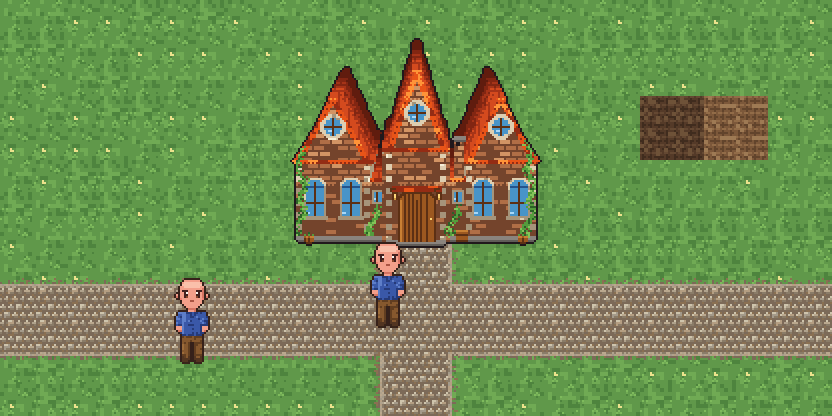
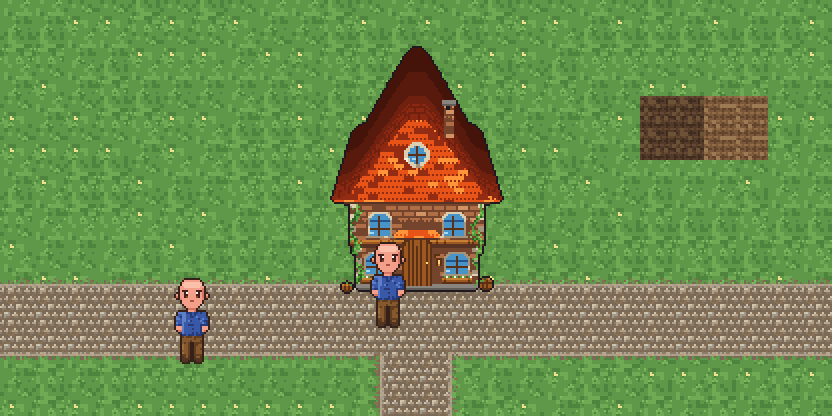
첫 집 모양으로 되돌리고, 지붕을 뒤로 길게
정면 박공 셋짜리는 마을회관의 형태지 우리 집의 형태가 아니었다.
사진에서 가져올 것은 **재질과 뒤로 눕는 지붕**이지 덩어리 구성이 아니다.
그래서 처음 그렸던 한 덩어리 집으로 돌아왔다 — 1층 위에 2층이 턱만큼
나오고, 그 위에 몸통보다 큰 지붕 하나가 앞을 본다.

크기는 옛 집에서 재 왔다 (292x384px = 73x96칸, 한가운데). 안 맞추면
집만 혼자 커져서 마을이 안 맞는다.

지붕을 「면」으로 만들기까지 세 번 틀렸다:

1. 종 모양(지수 0.58) + 뒤로 누운 면 = **버섯갓**. 지수를 0.94로 펴서
   빗변을 세웠다. 「너무 각져」서 부풀렸던 건데, 각을 없애는 건 지붕이
   아니라 몸통 귀퉁이의 일이었다 (soften이 한다)
2. 꼭대기가 **뾰족**하면 안 된다. 점 하나를 뒤로 서른여섯 칸 밀면 점이
   선이 되고, 그건 지붕이 아니라 굴뚝이다. 폭 4칸 용마루를 두니 그 띠가
   뒤로 뻗으면서 양옆으로 지붕면이 흘러내린다 — 이게 길이감이다
3. 색이 **뒤집혀** 있었다. 디더가 위를 밝게 칠해서 제일 먼 자리가 제일
   밝았다. 지붕은 한 면이다 — 처마가 가깝고 용마루가 멀다. 처마를 밝게,
   용마루로 갈수록 어둡게, 뒤 세 단계까지 한 줄기로 이었다

깊이 13 -> 24 -> 36칸. 앞 지붕(40칸)과 맞먹는 길이라 지붕이 몸통 뒤로
한참 이어진다. 좁아지는 폭도 26%로 같이 키웠다 — 길이만 늘리고 폭을
그대로 두면 멀어지는 게 아니라 그냥 길쭉해진다.

그 밖에:
- 구조 그늘(제티 턱·처마 밑)에 전용 색 D. 벽 그늘색을 쓰면 나중에 도는
  벽돌 줄눈 패스가 덮어써서 **턱이 사라졌다**
- 문 위에 제대로 된 현관 지붕. 두 줄 차양으로는 벽에 뚫린 구멍으로 보인다
- 문 폭 19 -> 15 (벽폭의 1/4). 넓으면 창고 문이 된다
- 살림은 벽에 기대 놓는다. 멀찍이 두면 잔디 위 점이 된다
- --wall=brick|stucco 로 벽 재료를 골라 볼 수 있다

Changed region(s): [[0.3438, 0.0938, 0.6562, 0.7188]]

diff --git a/game/assets/ref/make_buildings.js b/game/assets/ref/make_buildings.js
@@ -36,9 +36,12 @@ const OUT = INSTALL ? SPR : REF;
 const PRE = INSTALL ? '' : 'proposed_';
 
 const S = 4;                     // 논리 한 칸 = 원본 4px (화면에서 2px)
-// 캔버스를 위로 열두 칸 키웠다. 앞모습은 그대로 아래로 내려앉고,
-// 새로 생긴 위쪽 자리를 **뒤로 물러나는 지붕**이 쓴다.
-const GW = 128, GH = 114;
+// 캔버스를 위로 서른여섯 칸 키웠다. 앞모습은 그대로 아래로 내려앉고,
+// 새로 생긴 위쪽 자리를 **뒤로 물러나는 지붕**이 전부 쓴다.
+//
+// 바닥선(GROUND)도 같이 내려야 한다 — world_gen 이 그림 **높이**로 밑변을
+// 맞추므로, 바닥을 그대로 두고 캔버스만 키우면 집이 공중에 뜬다.
+const GW = 128, GH = 138;
 const FW = GW * S, FH = GH * S;
 
 // 옛 집에서 뽑은 색. 각 재료는 [기본, 그늘, 밝은 면] 세 톤.
@@ -70,11 +73,15 @@ const PAL = {
   // 같은 색이면 결에 묻혀 정면과 안 갈린다
   // 가까운 쪽 -> 먼 쪽 세 단계. 한 색으로 두면 뒤가 슬래브처럼 평평해진다
   'm': [176, 158, 130], 'n2': [148, 132, 108], 'm3': [120, 106, 88],
-  'M': [166, 52, 24], 'M2': [130, 38, 18], 'M3': [96, 28, 14],
-  // 뒤 지붕의 **가까운 쪽은 오히려 밝다.** 하늘을 마주 보는 면이라
-  // 빛을 정면 벽보다 많이 받는다. 여기서 한 번 밝아졌다가 멀어지며
-  // 어두워져야 「눕혀진 면」으로 보인다 — 처음부터 어두우면 그냥 그림자다
-  'Mn': [212, 74, 30],
+  'M': [112, 32, 14], 'M2': [88, 26, 12], 'M3': [68, 20, 10],
+  // 지붕 뒤쪽 세 단계는 **앞 지붕의 그늘색(R)에서 이어 내려간다.**
+  // 밝게 잡았더니 처마 쪽 밝은 기와 바로 위에 또 밝은 띠가 생겨서
+  // 지붕이 두 장으로 갈려 보였다. 지붕은 한 면이다 — 처마가 제일 가깝고
+  // 용마루가 제일 멀다. 색도 그 순서로 한 줄기여야 한다.
+  'Mn': [138, 40, 18],
+  // 구조 그늘(제티 턱·처마 밑) 전용. 벽 그늘색(K)을 쓰면 나중에 도는
+  // 벽돌 줄눈 패스가 통째로 덮어써서 **턱이 사라진다** — 실제로 사라졌었다
+  'D': [88, 50, 34],
 };
 
 // 결을 낼 때 쓰는 대응표 (기본 <-> 그늘 / 밝은 면)
@@ -246,7 +253,9 @@ function woodGrain(g) {
 // 빛은 **건물 하나에 한 방향**이다. 덩어리마다 따로 밝기를 매기면
 // 세 채를 붙여 놓은 것처럼 보인다 — 그래서 캔버스 전체를 한 번에 훑는다.
 function roughen(g) {
-  ditherFace(g, ['l', 'r', 'R'], 0, GROUND);            // 기와
+  // 기와는 **거꾸로** 깐다 — 처마(아래)가 밝고 용마루(위)가 어둡다.
+  // 위를 밝게 뒀더니 제일 먼 자리가 제일 밝아져서 원근이 뒤집혔다
+  ditherFace(g, ['R', 'r', 'l'], 0, GROUND);
   ditherFace(g, ['i', 'k', 'K'], 0, GROUND);            // 벽돌
   ditherFace(g, ['x', 'w', 'W'], 0, GROUND);            // 석재 테두리
   roofTiles(g, 0, GROUND);
@@ -324,7 +333,9 @@ function soften(g) {
 // 열 칸으로는 **두께**밖에 안 나온다. 사진의 지붕이 「면」으로 보이는 건
 // 뒤로 흐르는 거리가 정면 벽만큼 길어서다. 열다섯 칸 = 화면에서 30px,
 // 정면 벽(37칸)의 절반쯤 — 이제 눈이 이걸 「지붕」으로 읽는다.
-const DEPTH = 15;
+// 열세 칸은 「두껍다」, 스물네 칸은 「길다」, 서른여섯 칸은 **「뻗어 있다」**이다.
+// 앞 지붕(마흔 칸)과 거의 맞먹는 길이라, 지붕이 몸통 뒤로 한참 이어진다.
+const DEPTH = 36;
 
 // 그리고 **멀어질수록 좁아진다.**
 //
@@ -332,7 +343,9 @@ const DEPTH = 15;
 // 가는 것은 작아진다 — 그게 원근이다. 좌우로 비스듬히 미는 건 이미 해 봤고
 // 건물이 기울어 보여서 접었는데, **가운데로 모으는 것**은 다르다.
 // 양쪽이 똑같이 좁아지므로 정면은 마주 본 채로 뒤만 멀어진다.
-const TAPER = 0.16;              // 맨 뒤에서 16% 좁아진다
+// 깊어진 만큼 더 모아 준다. 길이가 두 배인데 좁아지는 폭이 그대로면
+// 뒤가 멀어지는 게 아니라 그냥 길쭉해 보인다
+const TAPER = 0.26;              // 맨 뒤에서 26% 좁아진다
 const VPX = GW / 2;              // 소실점 x (건물 한가운데 위)
 
 // 뒤로 물러나는 면은 **멀어질수록 어두워진다.** 한 색으로 채우면 두께가
@@ -400,81 +413,104 @@ function extrude(g) {
   // 맨 뒤 용마루 — 하늘을 받는 모서리라 밝다. 지붕 뒷면에만 얹는다
   // (굴뚝 꼭대기까지 주황으로 칠하면 그것만 튄다)
   for (let x = 0; x < GW; x++) for (let y = 0; y < GH - 1; y++)
-    if (g.d[y][x] !== '.') { if (BACK_ROOF.includes(g.d[y][x])) g.px(x, y, 'l'); break; }
+    if (g.d[y][x] !== '.') { if (BACK_ROOF.includes(g.d[y][x])) g.px(x, y, 'Mn'); break; }
 }
 
 
 // ---- 뼈대 ----
 //
-// 한 덩어리 상자를 아무리 잘 칠해도 창고로 보인다. 건물이 「건물」로
-// 읽히는 건 **덩어리가 여럿**일 때다 —
+// **한 덩어리 집으로 되돌렸다.**
 //
-//   가운데 몸채   제일 높고 **앞으로 나온다**. 시선이 여기 먼저 꽂힌다
-//   양 날개       한 단 낮은 박공이 정면을 마주 본다 (좌우 대칭)
-//   오목부        그 사이에 한 단 더 물러난 자리. 여기서 **지붕면**이 보인다
+// 사진(커뮤니티 센터)을 보고 정면 박공 셋짜리로 갈라 봤지만, 그건 마을
+// 회관의 형태지 우리 집의 형태가 아니었다. 사진에서 가져올 것은 **재질과
+// 뒤로 눕는 지붕**이지 덩어리 구성이 아니다.
 //
-// 정면 박공이 셋이면 실루엣에 산이 셋 생겨서, 멀리서 봐도 형태가 잡힌다.
-const GROUND = 107;               // 날개·오목부 바닥
-const GROUND_C = 109;             // 가운데 몸채 — 앞으로 나온 만큼 바닥이 내려온다
-
-const C0 = 49, C1 = 78;          // 가운데 몸채 좌우
-const C_RIDGE = 22, C_EAVE = 62;
-
-const L0 = 4, L1 = 40;           // 왼 날개
-const R0 = 89, R1 = 123;         // 오른 날개 (몸채와의 틈을 왼쪽과 똑같이 아홉 칸)
-const W_RIDGE = 36, W_EAVE = 68;
-
-const CONN_EAVE = 76;            // 오목부 처마 — 제일 낮다
-const CX = Math.round((C0 + C1) / 2);
-
-
-// 정면 박공 — 삼각 벽면에 빗변을 따라 기와 박공널을 두른다.
+// 그래서 처음 그렸던 모양 그대로 —
+//   1층 벽 위에 2층이 턱(제티)만큼 앞으로 나오고, 그 위에 몸통보다 큰
+//   지붕 하나가 앞을 보고 얹힌다. 옛 집이 아늑해 보이는 건 지붕이 크기 때문이다.
 //
-// 앞을 보고 선 지붕은 **면이 아니라 테두리**로 그린다. 지붕면 자체는
-// extrude가 이 빗변을 위로 밀어 뒤에 만들어 준다 — 그게 뒤로 흐르는 지붕이다.
-// 빗변을 살짝(지수 0.86) 부풀리면 곧은 삼각형보다 지붕이 얹힌 것처럼 보인다.
-function gable(g, x0, x1, top, base) {
+// 옛 판과 다른 건 좌우 위치뿐이다. 예전엔 10..100에 그려 오른쪽이 비어
+// 있었는데(비스듬히 밀던 시절의 자리), 지금은 곧게 뒤로 미니까
+// 캔버스 한가운데에 놓는 게 맞다.
+const GROUND = 131;              // 바닥선
+const MID = 109;                  // 1층·2층 경계
+const EAVE = 87;                 // 처마. 낮을수록 지붕이 커진다
+const RIDGE = 47;                // 용마루 (위로 DEPTH만큼 더 물러날 자리를 남긴다)
+// 크기는 **옛 집에서 재 왔다** — 내용이 292x384px = 73x96칸이고 캔버스
+// 한가운데에 있다. 이걸 안 맞추면 집만 혼자 커져서 마을이 안 맞는다.
+const X0 = 34, X1 = 94;          // 1층 벽 좌우 (지붕까지 73칸, 한가운데 정렬)
+const JUT = 3;                   // 2층이 앞으로 나온 턱 (제티)
+const CX = Math.round((X0 + X1) / 2);
+
+// 벽 재료를 고를 수 있게 해 뒀다. 사진은 벽돌이고 옛 우리 집은 회벽이라,
+// 어느 쪽이 마을에 맞는지는 나란히 놓고 봐야 안다.
+//   brick   벽돌 쌓기 + 크림색 귀돌        (사진 쪽)
+//   stucco  회벽 + 하프팀버 목재 띠         (옛 우리 집 쪽)
+const WALL = (process.argv.find(a => a.startsWith('--wall=')) || '').slice(7) || 'brick';
+const WB = WALL === 'stucco' ? 'w' : 'k';      // 벽 바탕
+const WD = WALL === 'stucco' ? 'W' : 'K';      // 벽 그늘
+const SHADE = 'D';                             // 구조 그늘 (덮어쓰기 안 됨)
+const FRAME = WALL === 'stucco' ? 'T' : 'w';   // 창 테두리 (회벽엔 크림이 안 보인다)
+
+
+// 지붕 — **곧은 빗변은 상자로 보인다.** 위에서 빨리 벌어지고 아래로 갈수록
+// 완만해지게 부풀리면 종 모양이 되어 초가·동화집 느낌이 난다.
+// 마지막 몇 줄은 처마가 바깥으로 들리는 것 — 이게 있어야 지붕이 「얹힌」다.
+function roof(g, x0, x1, top, base) {
   const h = base - top, half = (x1 - x0) / 2, cx = (x0 + x1) / 2;
-  const edgeAt = i => half * Math.pow(i / h, 0.86);
-  for (let i = 0; i <= h; i++) {                           // 삼각 벽면
-    const w = Math.round(edgeAt(i));
-    g.rect(Math.round(cx) - w, top + i, Math.round(cx) + w, top + i, 'k');
+  // 지수 0.58로 크게 부풀렸더니 **마녀 모자**가 됐다 — 위가 둥근 데다
+  // 뒤로 누운 면까지 얹히니 지붕 하나가 통째로 덩어리로 보였다.
+  // 0.94면 거의 곧은 빗변이다. 「너무 각져」서 부풀렸던 건데, 각을 없애는
+  // 건 지붕이 아니라 **몸통 귀퉁이**의 일이었다 (soften이 한다).
+  // 꼭대기를 **뾰족하게 두면 안 된다.** 점 하나를 뒤로 스물네 칸 밀면
+  // 점이 스물네 칸 올라간 선이 되고, 그건 지붕이 아니라 굴뚝처럼 보인다.
+  // 꼭대기에 폭 RH의 **용마루**를 두면, 그 띠가 그대로 뒤로 뻗으면서
+  // 양옆으로 지붕면이 흘러내린다 — 이게 「길이감」이다.
+  const RH = 4;
+  for (let i = 0; i <= h; i++) {
+    let w = RH + (half - RH) * Math.pow(i / h, 0.94);
+    if (i > h - 4) w += (i - (h - 4)) * 1.5;               // 처마 들림
+    w = Math.round(w);
+    g.rect(Math.round(cx - w), top + i, Math.round(cx + w), top + i, 'r');
+    // 박공널 — 빗변 바깥 두 칸을 어둡게. 이 선이 있어야 지붕에 **모서리**가 생겨
+    // 뒤로 누운 면과 앞 면이 갈린다
+    g.px(Math.round(cx - w), top + i, 'R'); g.px(Math.round(cx - w) + 1, top + i, 'R');
+    g.px(Math.round(cx + w), top + i, 'R'); g.px(Math.round(cx + w) - 1, top + i, 'R');
   }
-  for (let i = 0; i <= h; i++) {                           // 빗변 박공널
-    const w = Math.round(edgeAt(i));
-    for (let t = 0; t < 3; t++) {                          // 바깥 한 줄은 그늘
-      g.px(Math.round(cx) - w + t, top + i, t === 0 ? 'R' : 'r');
-      g.px(Math.round(cx) + w - t, top + i, t === 0 ? 'R' : 'r');
-    }
-  }
-  g.hline(Math.round(cx) - 2, Math.round(cx) + 2, top, 'l');   // 용마루
-  // 처마 — 벽보다 두 칸 밖으로 나오고 밑에 그늘이 깔린다.
-  // 이 그늘 한 줄이 없으면 지붕이 벽에 **인쇄된 것처럼** 보인다
-  g.hline(x0 - 2, x1 + 2, base - 1, 'r');
+  g.hline(Math.round(cx) - 4, Math.round(cx) + 4, top, 'l');       // 용마루 기와
+  g.hline(Math.round(cx) - 4, Math.round(cx) + 4, top + 1, 'r');
+  g.hline(x0 - 2, x1 + 2, base - 1, 'r');                  // 처마 끝 서까래
   g.hline(x0 - 2, x1 + 2, base, 'R');
-  g.hline(x0 - 1, x1 + 1, base + 1, 'K');
+  g.hline(x0 - 1, x1 + 1, base + 1, SHADE);                // 처마 밑 그늘
 }
 
 
-// 벽 — 벽돌 + 크림색 귀돌(모서리 돌). 귀돌이 각을 잡아 줘서
-// 벽돌만 있을 때보다 덩어리 경계가 또렷해진다.
-function wall(g, x0, x1, y0, y1) {
-  g.rect(x0, y0, x1, y1, 'k');
-  for (let y = y0 + 1; y < y1 - 3; y += 6) {
-    g.rect(x0, y, x0 + 2, y + 2, 'w');
-    g.rect(x1 - 2, y, x1, y + 2, 'w');
+// 벽 — 벽돌이면 크림색 귀돌로 각을 잡고, 회벽이면 하프팀버 목재를 두른다.
+function wall(g, x0, x1, y0, y1, plinth) {
+  g.rect(x0, y0, x1, y1, WB);
+  if (WALL === 'brick') {
+    for (let y = y0 + 1; y < y1 - 3; y += 6) {             // 귀돌
+      g.rect(x0, y, x0 + 2, y + 2, 'w');
+      g.rect(x1 - 2, y, x1, y + 2, 'w');
+    }
+  } else {
+    g.vline(x0 + 1, y0 + 1, y1 - 1, 't');                  // 기둥
+    g.vline(x1 - 1, y0 + 1, y1 - 1, 't');
+    g.hline(x0, x1, y0, 't');                              // 층 사이 띠
   }
-  g.rect(x0, y1 - 2, x1, y1, 'S');                         // 주춧돌
-  g.rect(x0, y1 - 2, x1, y1 - 1, 's');
+  if (plinth !== false) {
+    g.rect(x0, y1 - 2, x1, y1, 'S');                       // 주춧돌
+    g.rect(x0, y1 - 2, x1, y1 - 1, 's');
+  }
 }
 
 
 // 아치창 — 위가 둥근 창. 네모창보다 훨씬 「건물」로 읽힌다.
 // 크림색 석재 테두리가 핵심이다. 벽돌에 유리만 뚫으면 그냥 구멍이 된다.
-function archWin(g, x, y, w, h) {
+function archWin(g, x, y, w, h, flowers) {
   const x1 = x + w - 1, y1 = y + h - 1, r = Math.min(3, (w - 2) >> 1);
-  for (let i = 0; i < r; i++) g.rect(x + (r - 1 - i), y + i, x1 - (r - 1 - i), y + i, 'w');
-  g.rect(x, y + r, x1, y1, 'w');
+  for (let i = 0; i < r; i++) g.rect(x + (r - 1 - i), y + i, x1 - (r - 1 - i), y + i, FRAME);
+  g.rect(x, y + r, x1, y1, FRAME);
   for (let i = 0; i < r; i++)
     g.rect(x + 1 + (r - 1 - i), y + 1 + i, x1 - 1 - (r - 1 - i), y + 1 + i, 'g');
   g.rect(x + 1, y + r + 1, x1 - 1, y1 - 1, 'g');
@@ -482,8 +518,18 @@ function archWin(g, x, y, w, h) {
   g.px(x + 1, y1 - 2, 'e'); g.px(x + 2, y1 - 2, 'e');      // 아래 반사
   g.vline(x + ((w - 1) >> 1), y + 2, y1 - 1, 'T');         // 창살
   g.hline(x + 1, x1 - 1, y + Math.round(h * 0.62), 'T');
-  g.hline(x - 1, x1 + 1, y1, 'x');                         // 창턱이 한 칸 나온다
-  g.hline(x - 1, x1 + 1, y1 + 1, 'W');
+  g.hline(x - 1, x1 + 1, y1, WALL === 'stucco' ? 't' : 'x');   // 창턱이 한 칸 나온다
+  g.hline(x - 1, x1 + 1, y1 + 1, WD);
+  if (flowers) {                                           // 창 밑 꽃상자
+    const by = y1 + 2;
+    g.rect(x - 1, by, x1 + 1, by + 2, 't');
+    g.hline(x - 1, x1 + 1, by + 2, 'T');
+    g.hline(x - 1, x1 + 1, by, 'u');
+    for (let i = x; i <= x1; i += 2) {
+      g.px(i, by - 1, 'n');
+      if ((i - x) % 4 === 0) g.px(i + 1, by - 1, 'f');
+    }
+  }
 }
 
 
@@ -548,10 +594,12 @@ function archDoor(g, cx, w, h, GROUND) {
   g.vline(x0 + 1, y0 + 4, GROUND, 'u');                    // 왼쪽 빛
   g.vline(cx, y0 + 4, GROUND, 'T');                        // 가운데 널
   g.px(x0 + w - 3, y0 + Math.floor(h / 2), 'y');           // 손잡이
-  // 문 위 작은 차양
-  g.rect(x0 - 3, y0 - 3, x0 + w + 2, y0 - 2, 'r');
-  g.hline(x0 - 3, x0 + w + 2, y0 - 3, 'l');
-  g.hline(x0 - 3, x0 + w + 2, y0 - 1, 'R');                // 차양 밑 그늘
+  // 문 위 **현관 지붕**. 작은 차양 두 줄로는 문이 벽에 뚫린 구멍으로 보인다.
+  // 처마가 밖으로 나오고 밑에 그늘이 깔려야 「들어가는 곳」이 된다
+  for (let i = 0; i < 3; i++)
+    g.rect(x0 - 2 - i, y0 - 4 + i, x0 + w + 1 + i, y0 - 4 + i, i === 0 ? 'l' : 'r');
+  g.hline(x0 - 4, x0 + w + 3, y0 - 1, 'R');
+  g.hline(x0 - 3, x0 + w + 2, y0, 'D');                    // 현관 지붕 밑 그늘
   // 문지방 돌
   g.rect(x0 - 2, GROUND - 1, x0 + w + 1, GROUND, 'S');
   g.hline(x0 - 2, x0 + w + 1, GROUND - 1, 's');
@@ -585,7 +633,7 @@ function barrel(g, x, y) {
 
 
 function sign(g, cx) {
-  const w = 24, x0 = cx - w / 2, y = C_EAVE + 5;
+  const w = 24, x0 = cx - w / 2, y = EAVE + 5;
   g.vline(x0 + 3, y - 4, y, 'T');
   g.vline(x0 + w - 3, y - 4, y, 'T');
   g.rect(x0, y, x0 + w, y + 7, 'B');
@@ -606,69 +654,56 @@ function chimney(g, x, top, base) {
 
 
 // 그리는 **차례가 곧 깊이다.** 뒤에 있는 것부터 깔고 앞엣것으로 덮는다:
-//   오목부 -> 양 날개 -> 가운데 몸채
-// 겹치는 칸은 나중에 그린 쪽이 이기고, 그게 그대로 앞뒤가 된다.
+//   1층 벽 -> 2층 벽(제티) -> 창·문 -> 지붕 -> 뒤로 눕히기 -> 살림·담쟁이
 function build(spec) {
   const g = new G();
 
-  // ---- 오목부 (제일 뒤) ----
-  // 처마가 제일 낮아서 여기서만 **지붕면**이 넓게 보인다 (extrude가 만든다)
-  const RECESS = [[L1 - 2, C0 + 2], [C1 - 2, R0 + 2]];
-  for (const [a, b] of RECESS) {
-    g.rect(a, CONN_EAVE, b, GROUND, 'k');
-    g.rect(a, GROUND - 2, b, GROUND, 'S');
-    g.rect(a, GROUND - 2, b, GROUND - 1, 's');
-    g.hline(a, b, CONN_EAVE, 'r');                         // 처마 기와
-    g.hline(a, b, CONN_EAVE + 1, 'R');
-    g.hline(a, b, CONN_EAVE + 2, 'K');                     // 처마 밑 그늘
-  }
-  // 오목부에 큰 창은 안 넣는다 — 보이는 폭이 아홉 칸뿐이라 창을 끼우면
-  // 벽이 사라진다. 위쪽에 작은 창 하나만 두고 나머지는 담쟁이에 내준다
-  for (const x of [L1 + 2, C1 + 4]) {
-    g.rect(x, CONN_EAVE + 6, x + 5, CONN_EAVE + 12, 'w');
-    g.rect(x + 1, CONN_EAVE + 7, x + 4, CONN_EAVE + 11, 'g');
-    g.vline(x + 2, CONN_EAVE + 7, CONN_EAVE + 11, 'T');
-    g.px(x + 1, CONN_EAVE + 10, 'e');
+  // ---- 몸통 ----
+  wall(g, X0, X1, MID, GROUND);                            // 1층
+  wall(g, X0 - JUT, X1 + JUT, EAVE, MID - 1, false);       // 2층 (앞으로 JUT만큼)
+  // 2층 턱 밑 그늘 — 여기가 「튀어나왔다」를 만든다. 이 두 줄이 없으면
+  // 두 층이 한 장의 벽으로 붙어 버린다
+  g.hline(X0 - JUT, X1 + JUT, MID, SHADE);
+  g.hline(X0 - JUT, X1 + JUT, MID + 1, SHADE);
+  g.hline(X0 - JUT, X1 + JUT, MID - 1, 't');               // 층 사이 목재 띠
+  g.hline(X0 - JUT, X1 + JUT, MID - 2, 'u');               // 띠 윗면이 빛을 받는다
+  g.hline(X0 - JUT, X1 + JUT, EAVE + 1, SHADE);            // 처마 밑 그늘
+  // 제티 옆구리 — 2층이 1층보다 JUT만큼 넓으니 그 밑에 받침이 있어야 한다
+  for (const x of [X0 - JUT + 1, X1 + JUT - 1]) {
+    g.vline(x, MID + 2, MID + 5, 't');
+    g.px(x + (x < CX ? 1 : -1), MID + 2, 'T');
   }
 
-  // ---- 양 날개 ----
-  for (const [x0, x1] of [[L0, L1], [R0, R1]]) {
-    const mx = Math.round((x0 + x1) / 2);
-    wall(g, x0, x1, W_EAVE, GROUND);
-    gable(g, x0, x1, W_RIDGE, W_EAVE);
-    roundWin(g, mx, W_RIDGE + 14, 6);
-    archWin(g, mx - 14, W_EAVE + 8, 11, 20);
-    archWin(g, mx + 4, W_EAVE + 8, 11, 20);
-  }
+  // ---- 창·문 ----
+  archWin(g, CX - 26, MID + 4, 13, 12, true);              // 1층 (꽃상자)
+  archWin(g, CX + 14, MID + 4, 13, 12, true);
+  archWin(g, CX - 24, EAVE + 6, 12, 13, false);            // 2층
+  archWin(g, CX + 13, EAVE + 6, 12, 13, false);
+  archDoor(g, CX, 15, 25, GROUND);          // 문은 벽폭의 1/4쯤. 넓으면 창고 문이 된다
 
-  // ---- 가운데 몸채 (제일 앞) ----
-  wall(g, C0, C1, C_EAVE, GROUND_C);
-  gable(g, C0, C1, C_RIDGE, C_EAVE);
-  if (spec.clock) clockFace(g, CX, C_RIDGE + 21, 8);
-  else roundWin(g, CX, C_RIDGE + 21, 6);
-  archDoor(g, CX, 19, 26, GROUND_C);
-  // 몸채가 앞으로 나온 표 — 옆구리가 오목부 벽에 드리우는 그늘.
-  // 이 두 줄이 없으면 세 덩어리가 한 평면에 나란히 선 것처럼 보인다
-  for (const x of [C0 - 1, C0 - 2, C1 + 1, C1 + 2])
-    g.vline(x, C_EAVE + 2, GROUND, 'K');
+  // ---- 지붕 ----
+  // 박공 벽은 안 그린다 — 이 집은 지붕이 **앞을 보고** 있어서 삼각 벽면이
+  // 나올 자리가 없다. 그렸더니 지붕 위에 크림색 삼각형이 덧칠됐다.
+  roof(g, X0 - JUT - 3, X1 + JUT + 3, RIDGE, EAVE);
+  roundWin(g, CX, RIDGE + 17, 6);                          // 다락창
 
-  extrude(g);                                              // 뒤로 물러나는 면
-  // 굴뚝은 **뒤를 붙인 뒤에** 세운다. 정면 박공 벽면에 붙이면 벽기둥처럼
-  // 보인다 — 오목부의 낮은 지붕면에서 솟아야 굴뚝으로 읽힌다
+  extrude(g);                                              // 뒤로 눕는 지붕
+  // 굴뚝은 **뒤를 붙인 뒤에.** 앞 지붕면에 세우면 벽기둥처럼 보인다 —
+  // 뒤로 누운 면에서 솟아야 굴뚝으로 읽힌다
   if (spec.chimney !== false)
-    chimney(g, spec.chimneyX || C1 + 5, CONN_EAVE - 21, CONN_EAVE - 1);
-  // ---- 살림 (옆면 뒤에 — 앞에 놓인 것들이라 묻히면 안 된다) ----
-  lantern(g, C0 + 2, C_EAVE + 22);
-  lantern(g, C1 - 5, C_EAVE + 22);
-  planter(g, L0 + 4, GROUND - 1);
-  planter(g, R1 - 8, GROUND - 1);
-  barrel(g, C1 + 6, GROUND);
+    chimney(g, spec.chimneyX || X1 - 16, RIDGE - 10, RIDGE + 8);
+
+  // ---- 살림 (뒷면 뒤에 — 앞에 놓인 것들이라 묻히면 안 된다) ----
+  lantern(g, CX - 13, MID + 8);
+  lantern(g, CX + 9, MID + 8);
+  // 살림은 **벽에 기대 놓는다.** 멀찍이 떨어뜨렸더니 잔디 위에 굴러다니는
+  // 점이 되어 집과 아무 상관 없어 보였다
+  planter(g, X0 - JUT - 4, GROUND - 1);
+  barrel(g, X1 + JUT - 1, GROUND);
   if (spec.sign) sign(g, CX);
-  // 담쟁이는 **맨 마지막**에. 창틀·간판 위로도 조금 넘어가야 자란 것처럼 보인다
-  ivy(g, L0 + 2, GROUND - 3, W_RIDGE + 6);                 // 날개 바깥 모서리
-  ivy(g, R1 - 2, GROUND - 3, W_RIDGE + 6);
-  ivy(g, L1 + 3, GROUND - 3, CONN_EAVE + 14);              // 오목부 — 작은 창 밑까지만
-  ivy(g, C1 + 5, GROUND - 3, CONN_EAVE + 14);
+  // 담쟁이는 **맨 마지막**에. 창틀·간판 위로 조금 넘어가야 자란 것처럼 보인다
+  ivy(g, X0 - JUT + 2, GROUND - 3, EAVE + 3);
+  ivy(g, X1 + JUT - 2, GROUND - 3, EAVE + 3);
 
   roughen(g);
   soften(g);            // 남은 90도 귀퉁이를 전부 깎는다
